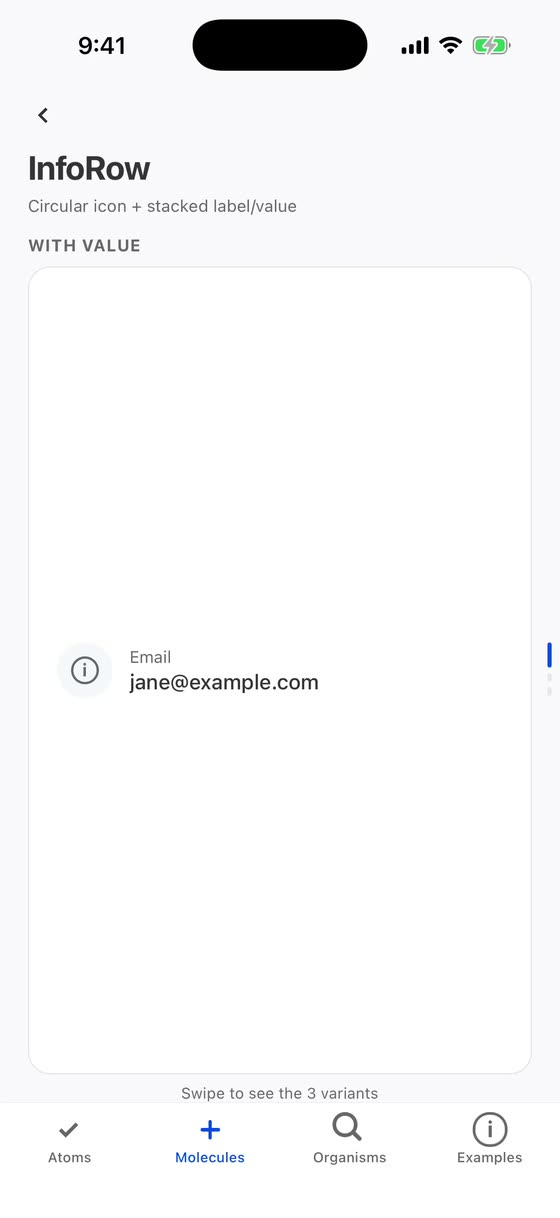
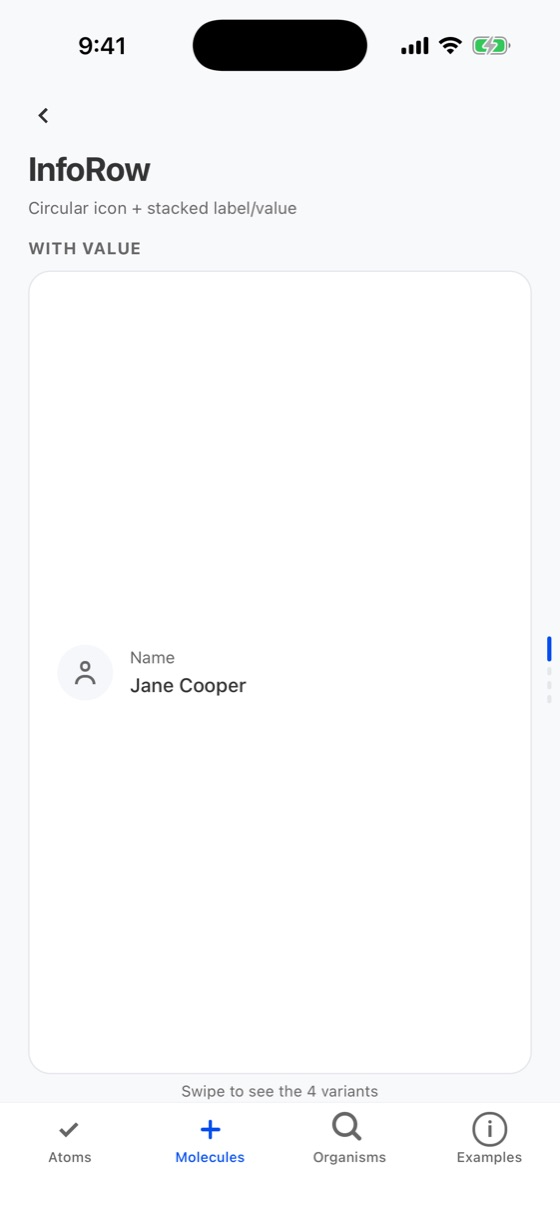
docs(info-row): new demo shots, Spanish props, changelog; drop stale video

diff --git a/demos/InfoRow.demo.tsx b/demos/InfoRow.demo.tsx
@@ -1,13 +1,43 @@
 import React from 'react';
-import { InfoRow } from 'orn-ui';
+import { View } from 'react-native';
+import { InfoRow, useTheme } from 'orn-ui';
 import { VariantList, type VariantDef } from './VariantList';
+
+// Rows sit further apart than label and value, so each row reads as one fact.
+function DetailList({ children }: { children: React.ReactNode }) {
+  const theme = useTheme();
+  return <View style={{ gap: theme.tokens.spacing.lg }}>{children}</View>;
+}
 
 export function InfoRowDemo() {
   // #region demo
   const variants: VariantDef[] = [
-    { label: 'With value', content: <InfoRow icon="info" label="Email" value="jane@example.com" placeholder="No email" /> },
-    { label: 'Missing value', content: <InfoRow icon="info" label="Phone" value={undefined} placeholder="No phone number" /> },
-    { label: 'Different icon', content: <InfoRow icon="check" label="Status" value="Verified" placeholder="Unverified" /> },
+    { label: 'With value', content: <InfoRow icon="user" label="Name" value="Jane Cooper" placeholder="No name" /> },
+    {
+      label: 'Missing value — placeholder',
+      content: <InfoRow icon="home" label="Address" value={undefined} placeholder="No address yet" />,
+    },
+    {
+      label: 'Long value wraps',
+      content: (
+        <InfoRow
+          icon="home"
+          label="Address"
+          value="4517 Washington Ave, Apartment 12B, Manchester, Kentucky 39495"
+          placeholder="No address yet"
+        />
+      ),
+    },
+    {
+      label: 'Detail list',
+      content: (
+        <DetailList>
+          <InfoRow icon="user" label="Name" value="Jane Cooper" placeholder="No name" />
+          <InfoRow icon="home" label="Address" value="4517 Washington Ave" placeholder="No address yet" />
+          <InfoRow icon="star" label="Membership" value={null} placeholder="Not a member" />
+        </DetailList>
+      ),
+    },
   ];
   return <VariantList variants={variants} />;
   // #endregion demo

diff --git a/src/data/changelog.ts b/src/data/changelog.ts
@@ -519,6 +519,19 @@ export const releases: Release[] = [
           ],
         },
         {
+          component: 'InfoRow',
+          items: [
+            {
+              en: 'Screen readers read the row as one element ("Email, jane@example.com", or the placeholder); the icon is decorative.',
+              es: 'El lector de pantalla lee la fila como un solo elemento ("Email, jane@example.com", o el placeholder); el ícono es decorativo.',
+            },
+            {
+              en: 'The value uses the type scale (14pt with its line height) and the placeholder drops the bold, so it is never mistaken for data. New `testID` prop.',
+              es: 'El valor usa la escala tipográfica (14pt con su interlineado) y el placeholder deja la negrita, así nunca se confunde con un dato. Prop nueva `testID`.',
+            },
+          ],
+        },
+        {
           component: 'Icons',
           page: '/components/icon-button',
           items: [
